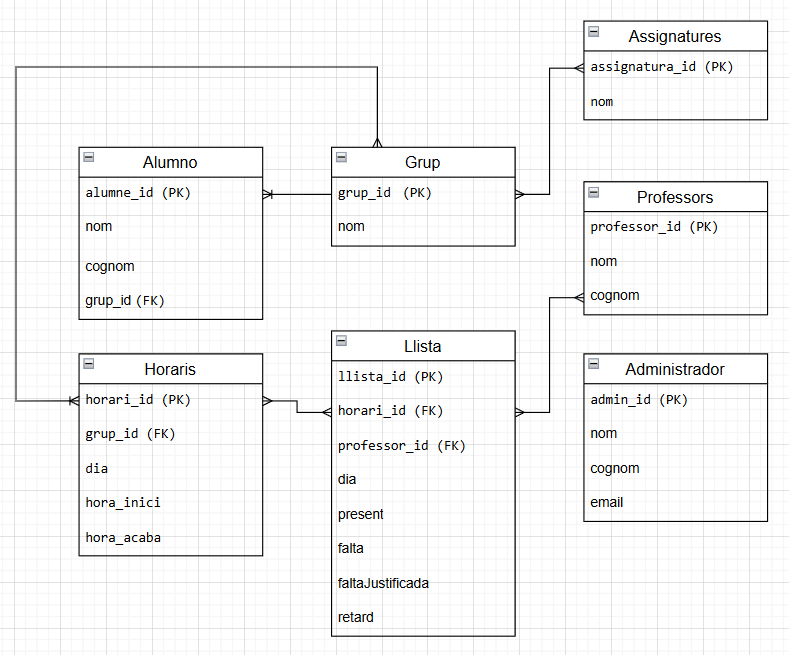
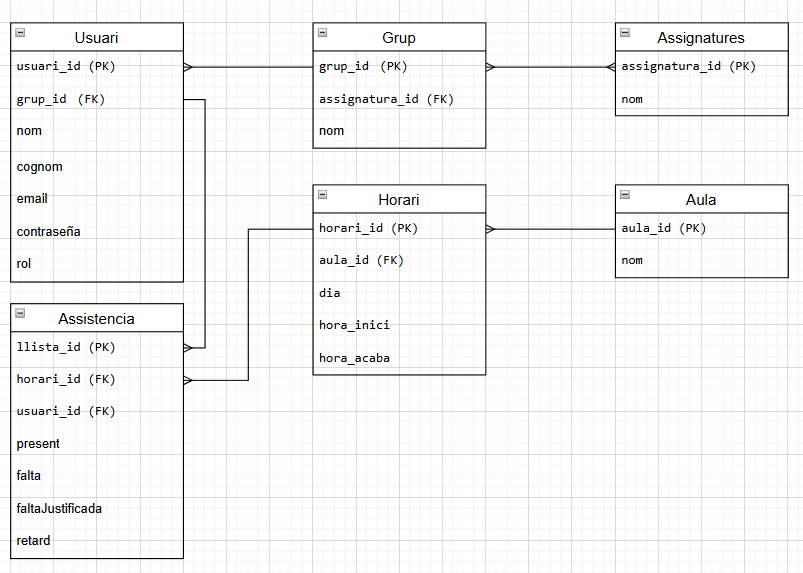
disseny modificat amb rols i taula 'aula' afegida

diff --git a/README.md b/README.md
@@ -1,19 +1,15 @@
 # Sprint 2 Arman, Andres Base de Dates
 
 <p>
-Aquest és el disseny inicial que hem plantejat que esta feta abans de la explicacio dels rols, un apartat que farem més endavant. El disseny està centrat exclusivament en l'ús correcte de l'aplicació dissenyada a Figma. Per aquest motiu, només inclou les funcionalitats i la informació essencial, sense afegir funcions i informacio innecessaris.
+Aquest és el disseny amb els rols i la tabla aula afegida on esta assignat dintre del horari
 
 Relació Alumne-Grup:
 Cada alumne està assignat a un grup específic (per exemple, DAW, DAM, etc.). Aquest grup conté diverses assignatures (com ara M7, M6, etc.).
 
-Horari del Grup:
-Cada grup té assignat un horari que inclou totes les assignatures programades.
-
 Professor i Passar Llista:
-Els professors que han de passar llista poden accedir a l'horari del grup assignat, el qual inclou la llista de tots els alumnes.
+Els professors que han de passar llista poden accedir a la tabla assistencia on pasa el control de presencia amb cada alumne.
 
-Funcionalitats Futures:
-En el proper disseny, l'administrador tindrà més opcions i funcionalitats dins de l'aplicació. Això permetrà una gestió més avançada del sistema.
+L'administrador tambe te la posibilitat de pasar llista i modifica algun cas de la llista de assistencia tambe pot eliminar i afegi usuaris
 
 <p>
 
